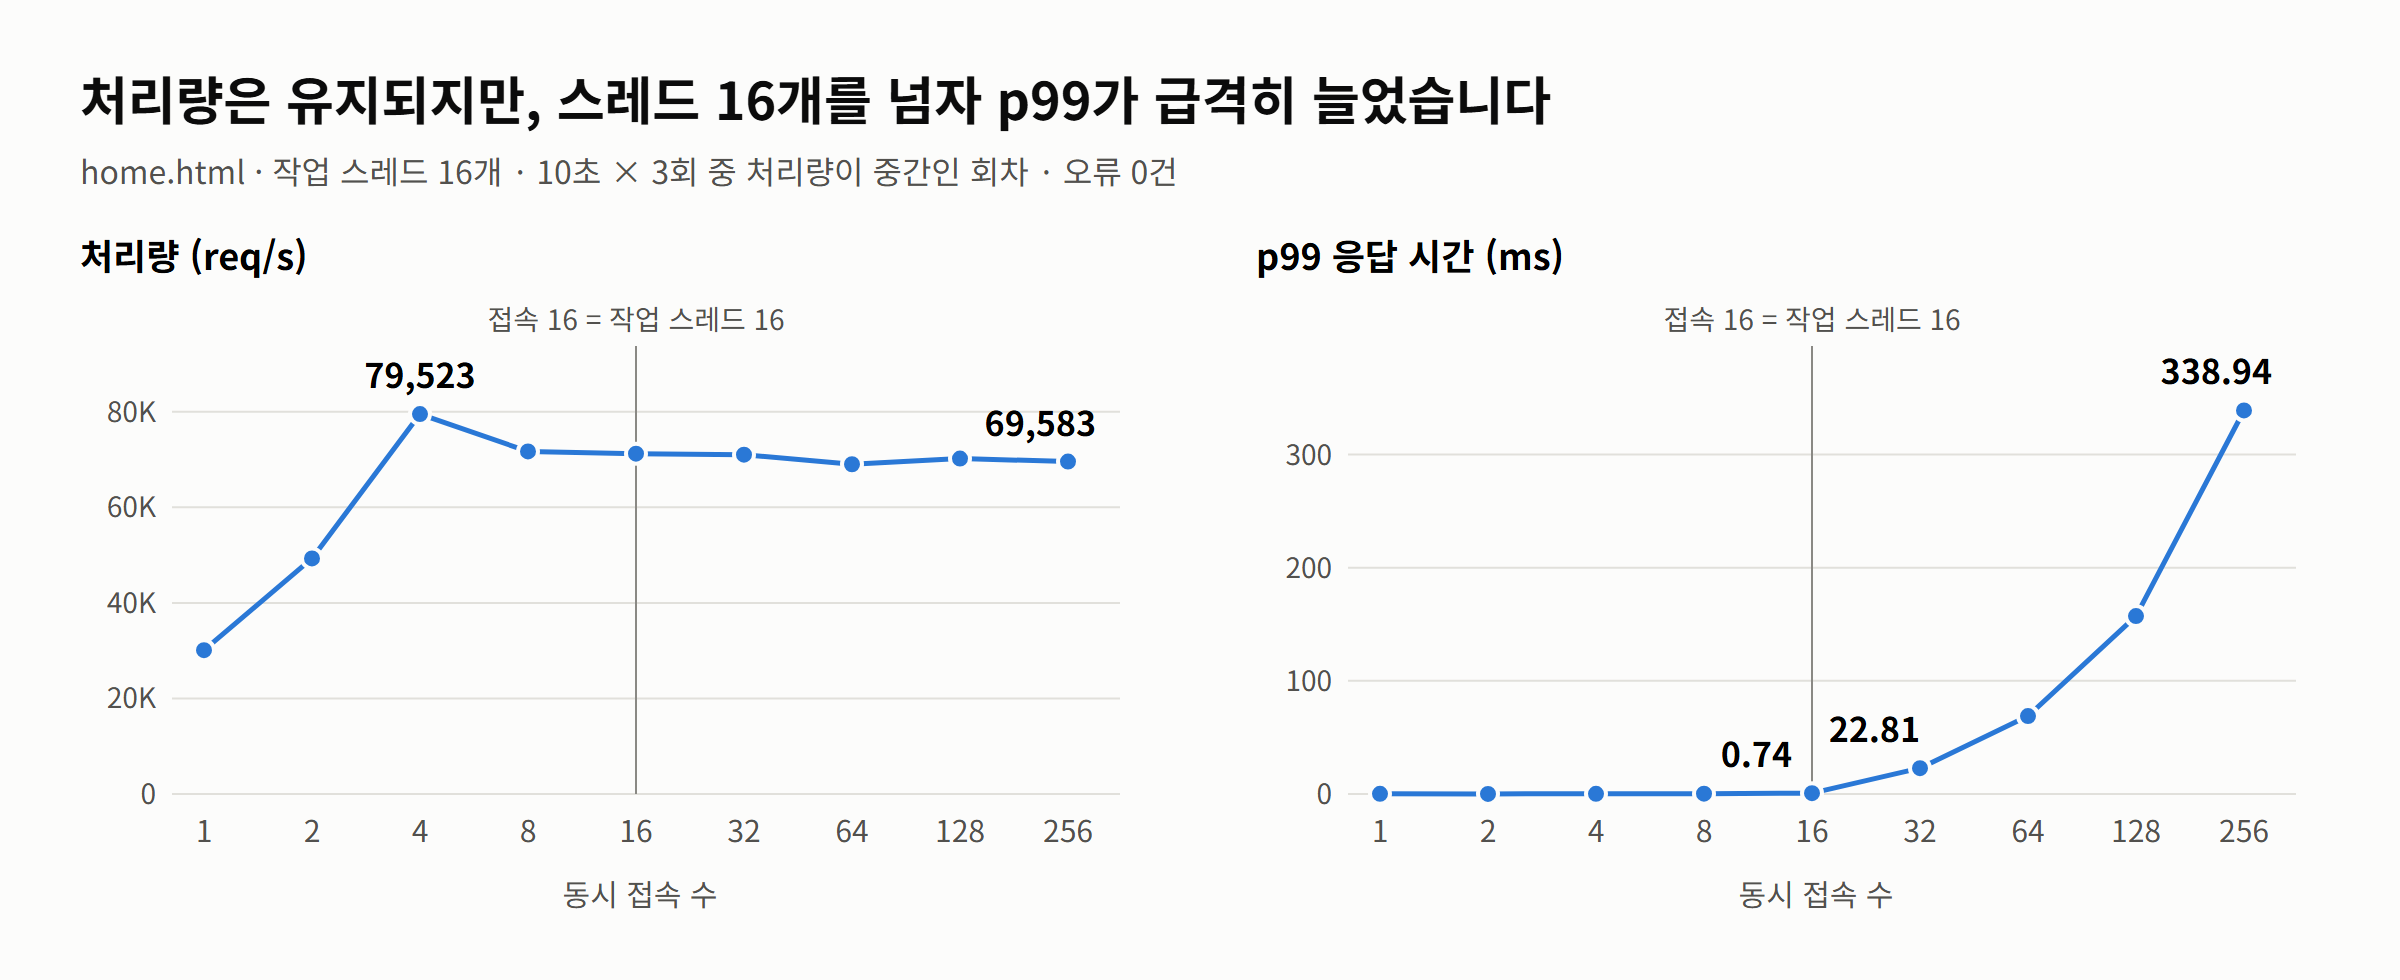
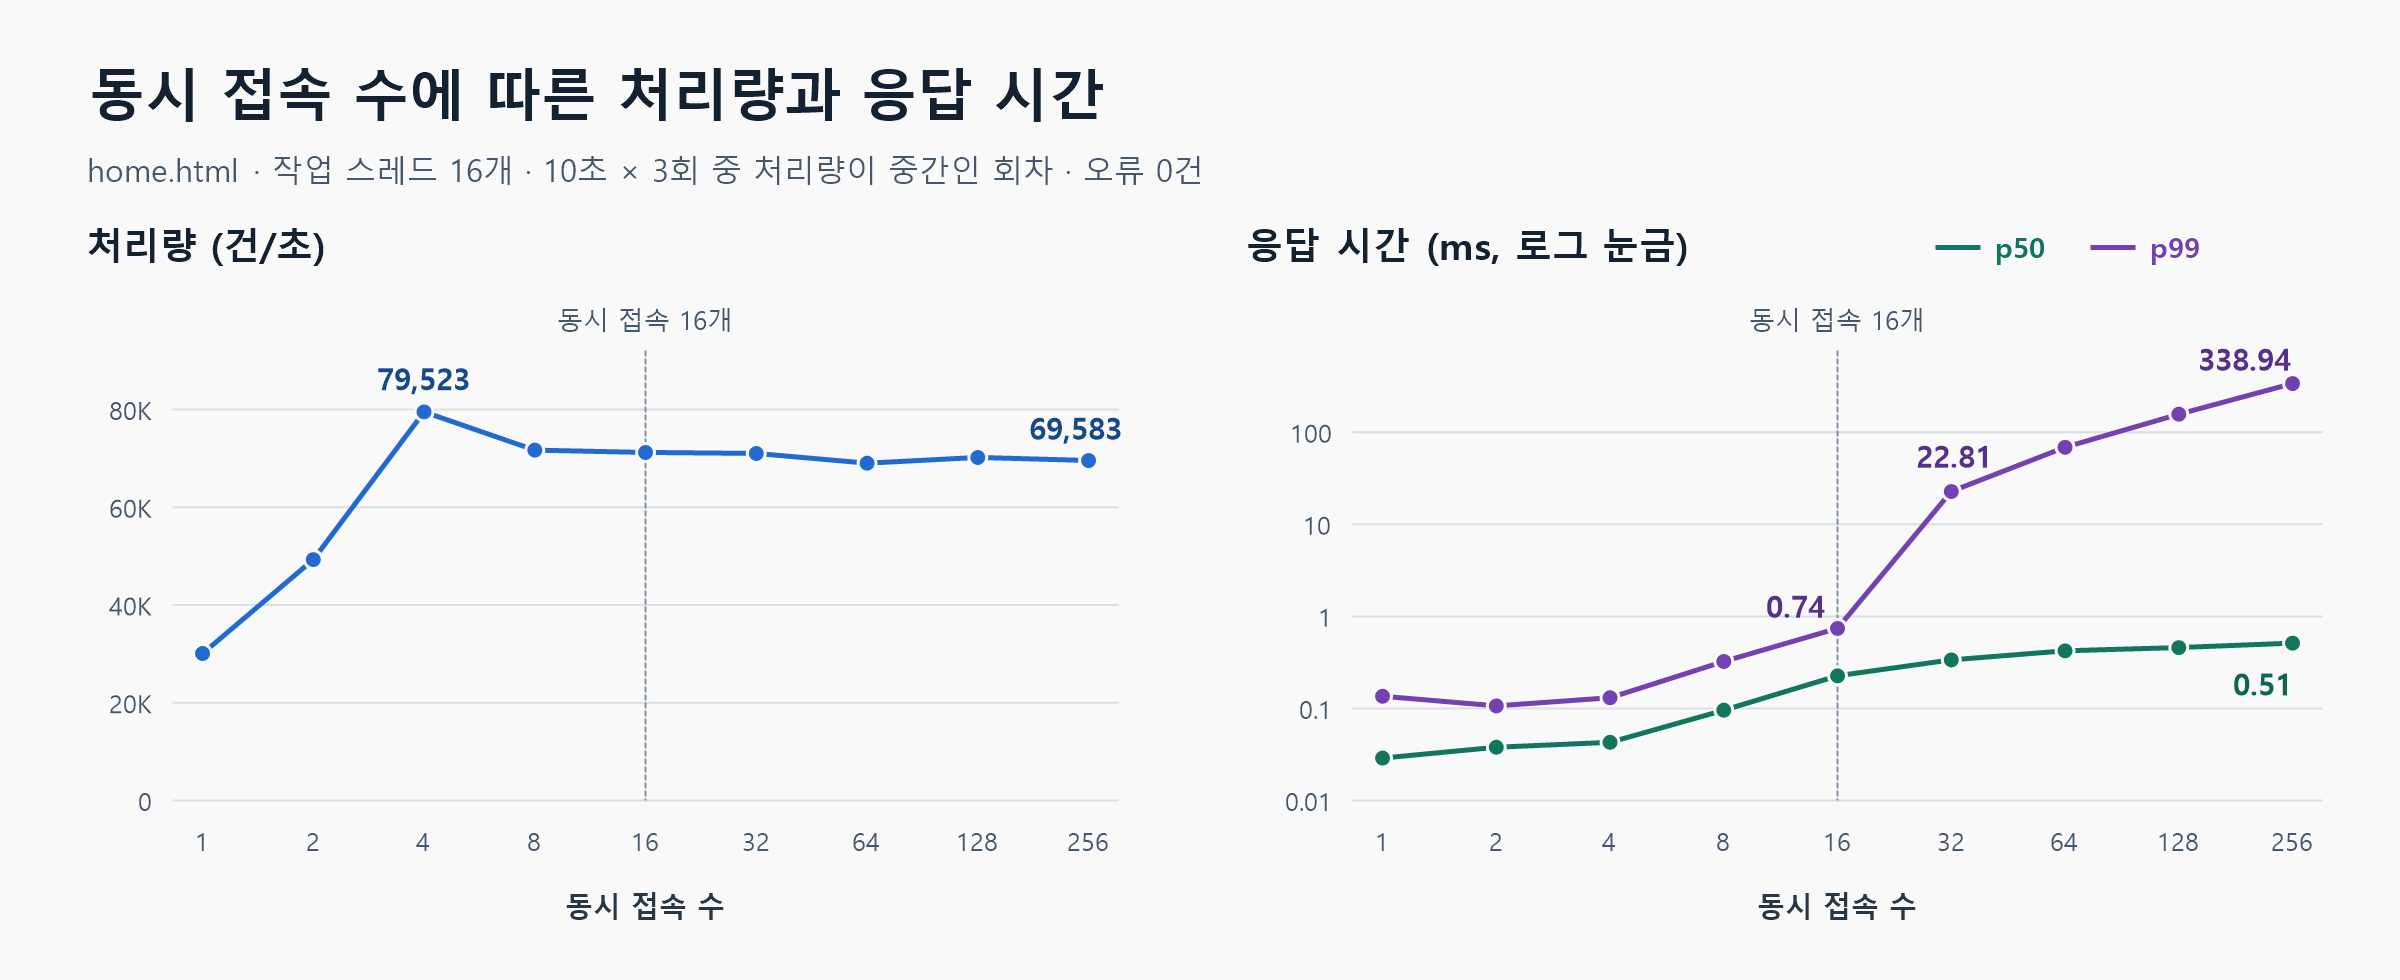
성능 실험 재측정 결과와 p50 그래프를 추가합니다

diff --git a/README.md b/README.md
@@ -199,13 +199,13 @@ make
 - **p50** — 응답 시간의 중앙값. 요청 100건 중 약 50건이 이 시간 안에 응답을 받는다.
 - **p99** — 요청 100건 중 약 99건이 응답을 받기까지 걸린 시간. 늦게 끝나는 요청의 응답 시간을 보는 지표.
 
-### A. 동시 접속 수에 따른 처리량과 p99
+### A. 동시 접속 수에 따른 처리량과 응답 시간
 
 - **측정 조건** — 작은 정적 파일(`home.html`), 작업 스레드 16개, 동시 접속 1개부터 256개까지.
 - **주요 결과** — 동시 접속 16개 → 32개에서 처리량은 초당 약 7만 건으로 비슷했고, p99는 `0.74ms → 22.81ms`로 증가.
 
 <p align="center">
-  <img src="docs/images/load-connections.png" width="100%" alt="동시 접속 4개에서 최고 79,523건/초, 8개부터 약 7만 건/초. p99는 접속 16개까지 1ms 미만, 32개에서 22.81ms, 256개에서 338.94ms.">
+  <img src="docs/images/load-connections.png" width="100%" alt="동시 접속 수에 따른 처리량과 p50·p99의 변화. 접속 4개에서 최고 79,523건/초. 응답 시간은 로그 눈금으로 표시. 접속 256개에서 p50 0.51ms, p99 338.94ms.">
 </p>
 
 동시 접속 256개에서 요청의 절반은 **0.51ms 이내(p50)**, 99%는 **338.94ms 이내(p99)**에 응답. 절반은 여전히 빠르게 끝났지만 일부 응답은 훨씬 오래 걸렸다.
@@ -213,7 +213,7 @@ make
 ### B. 작업 스레드 수에 따른 처리량과 p99
 
 - **측정 조건** — `home.html`, 동시 접속 32개, 작업 큐 64칸. 작업 스레드는 1·4·8·16·32개로 비교.
-- **주요 결과** — 작업 스레드 16개 → 32개에서 p99는 `22.47ms → 1.48ms`. 처리량은 `71,894 → 68,263건/초`로 약 5% 감소.
+- **주요 결과** — 작업 스레드 16개 → 32개에서 p99는 `22.47ms → 1.48ms`. 같은 측정에서 처리량은 `71,894 → 68,263건/초`.
 
 <p align="center">
   <img src="docs/images/threads-p99.png" width="100%" alt="동시 접속 32개, 작업 스레드 1·4·8·16·32개 순으로 p99는 104.45·39.90·33.63·22.47·1.48ms, 처리량은 초당 29,992·74,924·72,598·71,894·68,263건.">
@@ -221,7 +221,7 @@ make
 
 작업 스레드 하나는 연결 하나에서 최대 100건을 처리한다. 비어 있는 스레드가 없으면 새 연결은 큐에서 기다린다. 접속 수와 스레드 수를 32개로 맞췄을 때 p99가 크게 줄어든 것은 이 대기 시간의 영향을 보여 준다.
 
-기본값은 작업 스레드 16개. 이 실험에서 32개일 때 처리량이 줄었고, 접속 수가 다시 스레드 수를 넘으면 대기가 생길 수 있다.
+같은 접속 32개 조건을 다시 측정했을 때도 p99는 `24.90ms → 1.53ms`로 줄었다. 처리량은 `66,580 → 66,992건/초`로 비슷했다. 접속 수와 작업 스레드 수를 각각 바꿔 보니 두 설정의 조합에 따라 처리량이 달라졌고, 차이가 생긴 구간은 미확인. 기본 작업 스레드는 16개 유지. [교차 측정 결과](docs/measurements/001-m8-validation.md#접속-수와-스레드-수-교차-측정)
 
 서버와 부하 도구를 같은 컴퓨터에서 실행한 결과. [측정 조건, 전체 표, 원본](docs/measurements/001-m8-validation.md)
 
